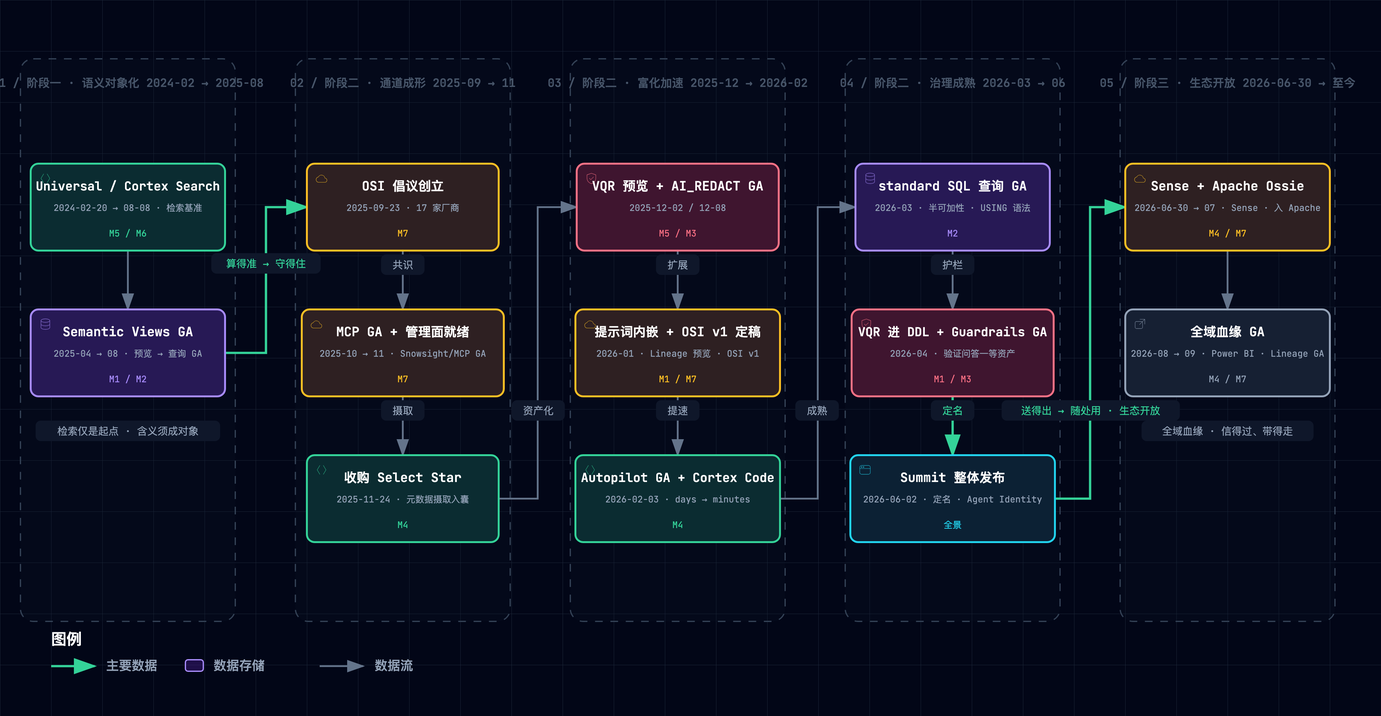
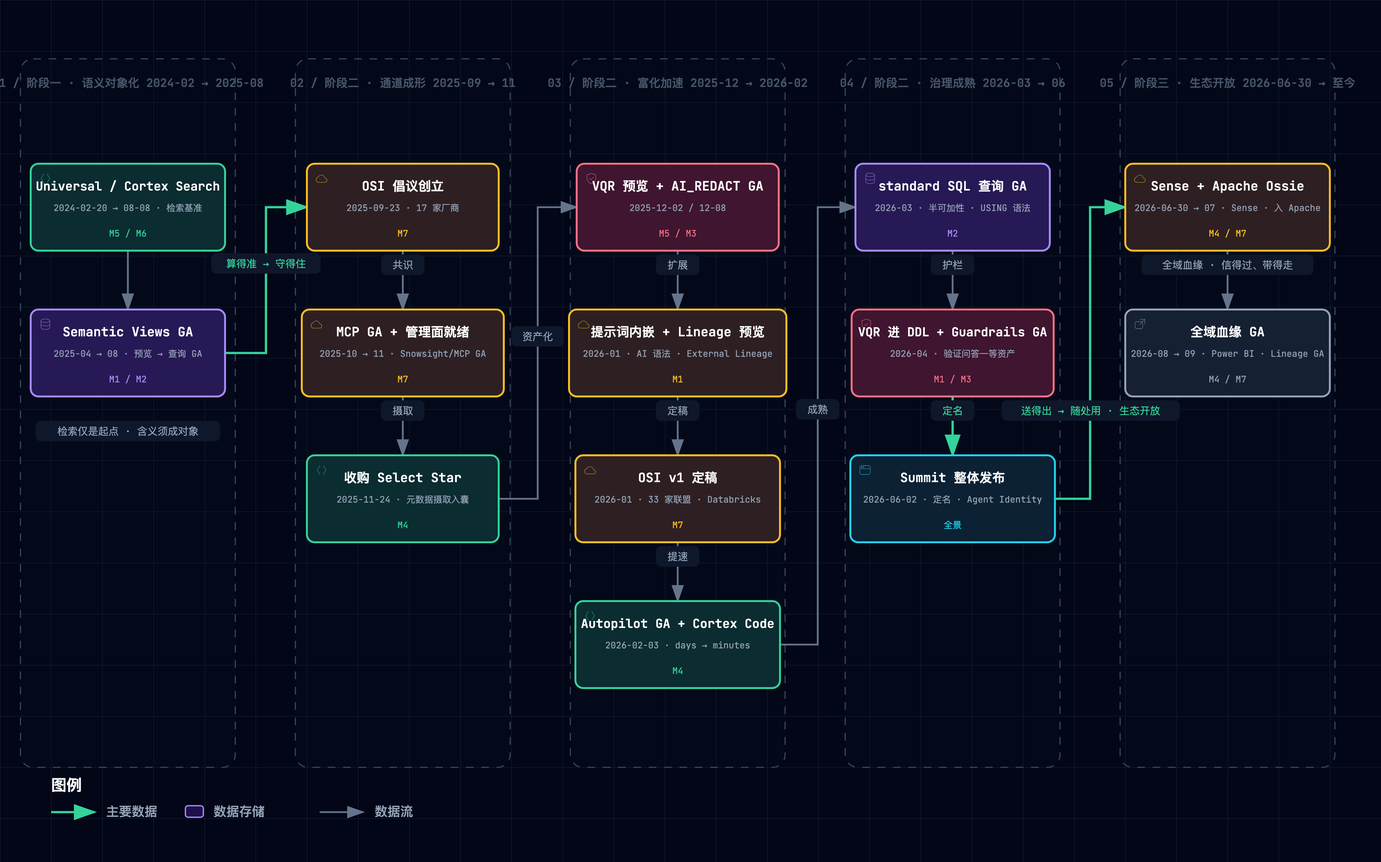
fix(horizon-context): 演进时间线重渲拆分 2026-01 双卡补回 33 家联盟 · Databricks，两个 .mmd 重写为出货图逐字镜像;
- evolution-timeline：archify 规格将 ms7 拆为 MS7A（提示词内嵌 + Lineage 预览 M1）/ MS7B（OSI v1 定稿 · 33 家联盟 · Databricks M7），HTML 重渲（validate showcase 9/9 全过 0 错 0 警 + visual-check 四视口 pass）并重采双主题 PNG；2026-01 两卡归位「富化加速 2025-12 → 2026-02」泳道，兼修旧 PNG 落位「通道成形」的日期矛盾
- 两个 .mmd 按管线铁律（mmd=SSOT）改写为出货图忠实镜像：timeline 三 subgraph 展开为五段泳道并补齐转移词（共识/摄取/资产化/扩展/定稿/提速/成熟/护栏/定名）；panorama 对齐五簇序与图内精简文案（ADA 随图归入消费端·生态与基座簇），被图省略的三条边以 %% fix 注记说明语义去向（SYSTEM$ 函数详见 open-interop 姊妹图）
- 修复评审三项发现：HTML 与 PNG 不同步 / timeline mmd 不反映五泳道结构 / panorama mmd 与图漂移

🤖 Generated with [Claude Code](https://github.com/claude), [CodeX](https://openai.com), [Gemini Code](https://github.com/apps/gemini-code-assist)

diff --git a/docs/assets/architecture/cognitive-context/horizon-context--evolution-timeline.html b/docs/assets/architecture/cognitive-context/horizon-context--evolution-timeline.html
@@ -5130,7 +5130,7 @@ OTHER DEALINGS IN THE FONT SOFTWARE.
     <!-- Main Diagram -->
     <div class="diagram-container" data-detail-level="read"
          data-preset-badge-editorial-plate="ARCHIFY / 图版 04">
-      <svg viewBox="0 0 1080 560" role="img" lang="zh-CN" aria-labelledby="archify-diagram-title archify-diagram-description" data-animation="trace" data-preset="classic" data-quality-profile="showcase">
+      <svg viewBox="0 0 1080 674" role="img" lang="zh-CN" aria-labelledby="archify-diagram-title archify-diagram-description" data-animation="trace" data-preset="classic" data-quality-profile="showcase">
         <title id="archify-diagram-title">Horizon Context 三阶段演进时间线</title>
         <desc id="archify-diagram-description">由 Archify 生成的数据流图。</desc>
         <!-- Definitions -->
@@ -5156,19 +5156,19 @@ OTHER DEALINGS IN THE FONT SOFTWARE.
         <rect width="100%" height="100%" fill="url(#grid)" />
 
         <!-- Data Stages -->
-        <rect data-graph-role="structural-frame" data-composition-frame-kind="stage" data-composition-frame-id="0" x="16" y="46" width="168" height="440" rx="10" class="c-lane" stroke-width="1"/>
+        <rect data-graph-role="structural-frame" data-composition-frame-kind="stage" data-composition-frame-id="0" x="16" y="46" width="168" height="554" rx="10" class="c-lane" stroke-width="1"/>
         <text x="100" y="68" class="t-dim" font-size="9" font-weight="600" text-anchor="middle">01 / 阶段一 · 语义对象化 2024-02 → 2025-08</text>
 
-        <rect data-graph-role="structural-frame" data-composition-frame-kind="stage" data-composition-frame-id="1" x="231" y="46" width="168" height="440" rx="10" class="c-lane" stroke-width="1"/>
+        <rect data-graph-role="structural-frame" data-composition-frame-kind="stage" data-composition-frame-id="1" x="231" y="46" width="168" height="554" rx="10" class="c-lane" stroke-width="1"/>
         <text x="315" y="68" class="t-dim" font-size="9" font-weight="600" text-anchor="middle">02 / 阶段二 · 通道成形 2025-09 → 11</text>
 
-        <rect data-graph-role="structural-frame" data-composition-frame-kind="stage" data-composition-frame-id="2" x="446" y="46" width="168" height="440" rx="10" class="c-lane" stroke-width="1"/>
+        <rect data-graph-role="structural-frame" data-composition-frame-kind="stage" data-composition-frame-id="2" x="446" y="46" width="168" height="554" rx="10" class="c-lane" stroke-width="1"/>
         <text x="530" y="68" class="t-dim" font-size="9" font-weight="600" text-anchor="middle">03 / 阶段二 · 富化加速 2025-12 → 2026-02</text>
 
-        <rect data-graph-role="structural-frame" data-composition-frame-kind="stage" data-composition-frame-id="3" x="661" y="46" width="168" height="440" rx="10" class="c-lane" stroke-width="1"/>
+        <rect data-graph-role="structural-frame" data-composition-frame-kind="stage" data-composition-frame-id="3" x="661" y="46" width="168" height="554" rx="10" class="c-lane" stroke-width="1"/>
         <text x="745" y="68" class="t-dim" font-size="9" font-weight="600" text-anchor="middle">04 / 阶段二 · 治理成熟 2026-03 → 06</text>
 
-        <rect data-graph-role="structural-frame" data-composition-frame-kind="stage" data-composition-frame-id="4" x="876" y="46" width="168" height="440" rx="10" class="c-lane" stroke-width="1"/>
+        <rect data-graph-role="structural-frame" data-composition-frame-kind="stage" data-composition-frame-id="4" x="876" y="46" width="168" height="554" rx="10" class="c-lane" stroke-width="1"/>
         <text x="960" y="68" class="t-dim" font-size="9" font-weight="600" text-anchor="middle">05 / 阶段三 · 生态开放 2026-06-30 → 至今</text>
 
         <!-- Flow paths -->
@@ -5177,13 +5177,14 @@ OTHER DEALINGS IN THE FONT SOFTWARE.
         <path data-edge-from="ms3" data-edge-to="ms4" data-edge-label="共识" data-edge-key="2" data-composition-points="315,196;315,242" d="M 315 196 L 315 242" class="a-default" data-animate="edge" style="--step:2" stroke-width="1.4" marker-end="url(#arrowhead)"/>
         <path data-edge-from="ms4" data-edge-to="ms5" data-edge-label="摄取" data-edge-key="3" data-composition-points="315,310;315,356" d="M 315 310 L 315 356" class="a-default" data-animate="edge" style="--step:3" stroke-width="1.4" marker-end="url(#arrowhead)"/>
         <path data-edge-from="ms5" data-edge-to="ms6" data-edge-label="资产化" data-edge-key="4" data-composition-points="390,390;420.5,390;420.5,162;451,162" d="M 390 390 L 420.5 390 L 420.5 162 L 451 162" class="a-default" data-animate="edge" style="--step:4" stroke-width="1.4" marker-end="url(#arrowhead)"/>
-        <path data-edge-from="ms6" data-edge-to="ms7" data-edge-label="扩展" data-edge-key="5" data-composition-points="530,196;530,242" d="M 530 196 L 530 242" class="a-default" data-animate="edge" style="--step:5" stroke-width="1.4" marker-end="url(#arrowhead)"/>
-        <path data-edge-from="ms7" data-edge-to="ms8" data-edge-label="提速" data-edge-key="6" data-composition-points="530,310;530,356" d="M 530 310 L 530 356" class="a-default" data-animate="edge" style="--step:6" stroke-width="1.4" marker-end="url(#arrowhead)"/>
-        <path data-edge-from="ms8" data-edge-to="ms9" data-edge-label="成熟" data-edge-key="7" data-composition-points="610,390;639.5,390;639.5,162;669,162" d="M 610 390 L 639.5 390 L 639.5 162 L 669 162" class="a-default" data-animate="edge" style="--step:7" stroke-width="1.4" marker-end="url(#arrowhead)"/>
-        <path data-edge-from="ms9" data-edge-to="ms10" data-edge-label="护栏" data-edge-key="8" data-composition-points="745,196;745,242" d="M 745 196 L 745 242" class="a-default" data-animate="edge" style="--step:8" stroke-width="1.4" marker-end="url(#arrowhead)"/>
-        <path data-edge-from="ms10" data-edge-to="ms11" data-edge-label="定名" data-edge-key="9" data-composition-points="745,310;745,356" d="M 745 310 L 745 356" class="a-emphasis" data-animate="edge" style="--step:9" stroke-width="1.8" marker-end="url(#arrowhead-emphasis)"/>
-        <path data-edge-from="ms11" data-edge-to="ms12" data-edge-label="送得出 → 随处用 · 生态开放" data-edge-key="10" data-composition-points="825,390;852.5,390;852.5,162;880,162" d="M 825 390 L 852.5 390 L 852.5 162 L 880 162" class="a-emphasis" data-animate="edge" style="--step:10" stroke-width="1.8" marker-end="url(#arrowhead-emphasis)"/>
-        <path data-edge-from="ms12" data-edge-to="ms13" data-edge-label="全域血缘 · 信得过、带得走" data-edge-key="11" data-composition-points="960,196;960,242" d="M 960 196 L 960 242" class="a-default" data-animate="edge" style="--step:11" stroke-width="1.4" marker-end="url(#arrowhead)"/>
+        <path data-edge-from="ms6" data-edge-to="ms7a" data-edge-label="扩展" data-edge-key="5" data-composition-points="530,196;530,242" d="M 530 196 L 530 242" class="a-default" data-animate="edge" style="--step:5" stroke-width="1.4" marker-end="url(#arrowhead)"/>
+        <path data-edge-from="ms7a" data-edge-to="ms7b" data-edge-label="定稿" data-edge-key="6" data-composition-points="530,310;530,356" d="M 530 310 L 530 356" class="a-default" data-animate="edge" style="--step:6" stroke-width="1.4" marker-end="url(#arrowhead)"/>
+        <path data-edge-from="ms7b" data-edge-to="ms8" data-edge-label="提速" data-edge-key="7" data-composition-points="530,424;530,470" d="M 530 424 L 530 470" class="a-default" data-animate="edge" style="--step:7" stroke-width="1.4" marker-end="url(#arrowhead)"/>
+        <path data-edge-from="ms8" data-edge-to="ms9" data-edge-label="成熟" data-edge-key="8" data-composition-points="610,504;639.5,504;639.5,162;669,162" d="M 610 504 L 639.5 504 L 639.5 162 L 669 162" class="a-default" data-animate="edge" style="--step:8" stroke-width="1.4" marker-end="url(#arrowhead)"/>
+        <path data-edge-from="ms9" data-edge-to="ms10" data-edge-label="护栏" data-edge-key="9" data-composition-points="745,196;745,242" d="M 745 196 L 745 242" class="a-default" data-animate="edge" style="--step:9" stroke-width="1.4" marker-end="url(#arrowhead)"/>
+        <path data-edge-from="ms10" data-edge-to="ms11" data-edge-label="定名" data-edge-key="10" data-composition-points="745,310;745,356" d="M 745 310 L 745 356" class="a-emphasis" data-animate="edge" style="--step:10" stroke-width="1.8" marker-end="url(#arrowhead-emphasis)"/>
+        <path data-edge-from="ms11" data-edge-to="ms12" data-edge-label="送得出 → 随处用 · 生态开放" data-edge-key="11" data-composition-points="825,390;852.5,390;852.5,162;880,162" d="M 825 390 L 852.5 390 L 852.5 162 L 880 162" class="a-emphasis" data-animate="edge" style="--step:11" stroke-width="1.8" marker-end="url(#arrowhead-emphasis)"/>
+        <path data-edge-from="ms12" data-edge-to="ms13" data-edge-label="全域血缘 · 信得过、带得走" data-edge-key="12" data-composition-points="960,196;960,242" d="M 960 196 L 960 242" class="a-default" data-animate="edge" style="--step:12" stroke-width="1.4" marker-end="url(#arrowhead)"/>
 
         <!-- Nodes -->
         <g id="node-ms1" data-node-id="ms1" data-node-label="Universal / Cortex Search" tabindex="0" role="button" aria-label="聚焦Universal / Cortex Search，2024-02-20 → 08-08 · 检索基准, 01 / 阶段一 · 语义对象化 2024-02 → 2025-08" aria-pressed="false" data-node-kind="backend" data-node-sublabel="2024-02-20 → 08-08 · 检索基准" data-node-tag="M5 / M6" data-node-context="01 / 阶段一 · 语义对象化 2024-02 → 2025-08">
@@ -5260,34 +5261,46 @@ OTHER DEALINGS IN THE FONT SOFTWARE.
         <text data-detail="fine" x="530" y="185" class="t-security" font-size="7" text-anchor="middle">M5 / M3</text>
         </g>
 
-        <g id="node-ms7" data-node-id="ms7" data-node-label="提示词内嵌 + OSI v1 定稿" tabindex="0" role="button" aria-label="聚焦提示词内嵌 + OSI v1 定稿，2026-01 · Lineage 预览 · OSI v1, 03 / 阶段二 · 富化加速 2025-12 → 2026-02" aria-pressed="false" data-node-kind="cloud" data-node-sublabel="2026-01 · Lineage 预览 · OSI v1" data-node-tag="M1 / M7" data-node-context="03 / 阶段二 · 富化加速 2025-12 → 2026-02">
-          <title>提示词内嵌 + OSI v1 定稿 · 2026-01 · Lineage 预览 · OSI v1 · 03 / 阶段二 · 富化加速 2025-12 → 2026-02 · M1 / M7</title>
-          <rect x="450" y="242" width="160" height="68" rx="6" class="c-mask"/>
-          <rect x="450" y="242" width="160" height="68" rx="6" class="c-cloud" data-animate="node" style="--step:6" stroke-width="1.5"/>
-          <g aria-hidden="true" data-semantic-sigil="cloud" class="semantic-sigil s-cloud" transform="translate(456 248) scale(0.6875)">
+        <g id="node-ms7a" data-node-id="ms7a" data-node-label="提示词内嵌 + Lineage 预览" tabindex="0" role="button" aria-label="聚焦提示词内嵌 + Lineage 预览，2026-01 · AI 语法 · External Lineage, 03 / 阶段二 · 富化加速 2025-12 → 2026-02" aria-pressed="false" data-node-kind="cloud" data-node-sublabel="2026-01 · AI 语法 · External Lineage" data-node-tag="M1" data-node-context="03 / 阶段二 · 富化加速 2025-12 → 2026-02">
+          <title>提示词内嵌 + Lineage 预览 · 2026-01 · AI 语法 · External Lineage · 03 / 阶段二 · 富化加速 2025-12 → 2026-02 · M1</title>
+          <rect x="445" y="242" width="170" height="68" rx="6" class="c-mask"/>
+          <rect x="445" y="242" width="170" height="68" rx="6" class="c-cloud" data-animate="node" style="--step:6" stroke-width="1.5"/>
+          <g aria-hidden="true" data-semantic-sigil="cloud" class="semantic-sigil s-cloud" transform="translate(451 248) scale(0.6875)">
             <path d="M4.3 12.5h7.3a2.4 2.4 0 0 0 .2-4.8 4 4 0 0 0-7.5-1.3A3.1 3.1 0 0 0 4.3 12.5Z"/>
           </g>
-          <text data-node-label="" data-detail-anchor="" x="530" y="263" class="t-primary" font-size="10" font-weight="600" text-anchor="middle">提示词内嵌 + OSI v1 定稿</text>
-          <text data-detail="context" x="530" y="279" class="t-muted" font-size="7" text-anchor="middle">2026-01 · Lineage 预览 · OSI v1</text>
-        <text data-detail="fine" x="530" y="299" class="t-cloud" font-size="7" text-anchor="middle">M1 / M7</text>
+          <text data-node-label="" data-detail-anchor="" x="530" y="263" class="t-primary" font-size="10" font-weight="600" text-anchor="middle">提示词内嵌 + Lineage 预览</text>
+          <text data-detail="context" x="530" y="279" class="t-muted" font-size="7" text-anchor="middle">2026-01 · AI 语法 · External Lineage</text>
+        <text data-detail="fine" x="530" y="299" class="t-cloud" font-size="7" text-anchor="middle">M1</text>
+        </g>
+
+        <g id="node-ms7b" data-node-id="ms7b" data-node-label="OSI v1 定稿" tabindex="0" role="button" aria-label="聚焦OSI v1 定稿，2026-01 · 33 家联盟 · Databricks, 03 / 阶段二 · 富化加速 2025-12 → 2026-02" aria-pressed="false" data-node-kind="cloud" data-node-sublabel="2026-01 · 33 家联盟 · Databricks" data-node-tag="M7" data-node-context="03 / 阶段二 · 富化加速 2025-12 → 2026-02">
+          <title>OSI v1 定稿 · 2026-01 · 33 家联盟 · Databricks · 03 / 阶段二 · 富化加速 2025-12 → 2026-02 · M7</title>
+          <rect x="450" y="356" width="160" height="68" rx="6" class="c-mask"/>
+          <rect x="450" y="356" width="160" height="68" rx="6" class="c-cloud" data-animate="node" style="--step:7" stroke-width="1.5"/>
+          <g aria-hidden="true" data-semantic-sigil="cloud" class="semantic-sigil s-cloud" transform="translate(456 362) scale(0.6875)">
+            <path d="M4.3 12.5h7.3a2.4 2.4 0 0 0 .2-4.8 4 4 0 0 0-7.5-1.3A3.1 3.1 0 0 0 4.3 12.5Z"/>
+          </g>
+          <text data-node-label="" data-detail-anchor="" x="530" y="377" class="t-primary" font-size="10" font-weight="600" text-anchor="middle">OSI v1 定稿</text>
+          <text data-detail="context" x="530" y="393" class="t-muted" font-size="7" text-anchor="middle">2026-01 · 33 家联盟 · Databricks</text>
+        <text data-detail="fine" x="530" y="413" class="t-cloud" font-size="7" text-anchor="middle">M7</text>
         </g>
 
         <g id="node-ms8" data-node-id="ms8" data-node-label="Autopilot GA + Cortex Code" tabindex="0" role="button" aria-label="聚焦Autopilot GA + Cortex Code，2026-02-03 · days → minutes, 03 / 阶段二 · 富化加速 2025-12 → 2026-02" aria-pressed="false" data-node-kind="backend" data-node-sublabel="2026-02-03 · days → minutes" data-node-tag="M4" data-node-context="03 / 阶段二 · 富化加速 2025-12 → 2026-02">
           <title>Autopilot GA + Cortex Code · 2026-02-03 · days → minutes · 03 / 阶段二 · 富化加速 2025-12 → 2026-02 · M4</title>
-          <rect x="450" y="356" width="160" height="68" rx="6" class="c-mask"/>
-          <rect x="450" y="356" width="160" height="68" rx="6" class="c-backend" data-animate="node" style="--step:7" stroke-width="1.5"/>
-          <g aria-hidden="true" data-semantic-sigil="backend" class="semantic-sigil s-backend" transform="translate(456 362) scale(0.6875)">
+          <rect x="450" y="470" width="160" height="68" rx="6" class="c-mask"/>
+          <rect x="450" y="470" width="160" height="68" rx="6" class="c-backend" data-animate="node" style="--step:8" stroke-width="1.5"/>
+          <g aria-hidden="true" data-semantic-sigil="backend" class="semantic-sigil s-backend" transform="translate(456 476) scale(0.6875)">
             <path d="M6 3 3 8l3 5M10 3l3 5-3 5"/>
           </g>
-          <text data-node-label="" data-detail-anchor="" x="530" y="377" class="t-primary" font-size="9.7" font-weight="600" text-anchor="middle">Autopilot GA + Cortex Code</text>
-          <text data-detail="context" x="530" y="393" class="t-muted" font-size="7" text-anchor="middle">2026-02-03 · days → minutes</text>
-        <text data-detail="fine" x="530" y="413" class="t-backend" font-size="7" text-anchor="middle">M4</text>
+          <text data-node-label="" data-detail-anchor="" x="530" y="491" class="t-primary" font-size="9.7" font-weight="600" text-anchor="middle">Autopilot GA + Cortex Code</text>
+          <text data-detail="context" x="530" y="507" class="t-muted" font-size="7" text-anchor="middle">2026-02-03 · days → minutes</text>
+        <text data-detail="fine" x="530" y="527" class="t-backend" font-size="7" text-anchor="middle">M4</text>
         </g>
 
         <g id="node-ms9" data-node-id="ms9" data-node-label="standard SQL 查询 GA" tabindex="0" role="button" aria-label="聚焦standard SQL 查询 GA，2026-03 · 半可加性 · USING 语法, 04 / 阶段二 · 治理成熟 2026-03 → 06" aria-pressed="false" data-node-kind="database" data-node-sublabel="2026-03 · 半可加性 · USING 语法" data-node-tag="M2" data-node-context="04 / 阶段二 · 治理成熟 2026-03 → 06">
           <title>standard SQL 查询 GA · 2026-03 · 半可加性 · USING 语法 · 04 / 阶段二 · 治理成熟 2026-03 → 06 · M2</title>
           <rect x="669" y="128" width="152" height="68" rx="6" class="c-mask"/>
-          <rect x="669" y="128" width="152" height="68" rx="6" class="c-database" data-animate="node" style="--step:8" stroke-width="1.5"/>
+          <rect x="669" y="128" width="152" height="68" rx="6" class="c-database" data-animate="node" style="--step:9" stroke-width="1.5"/>
           <g aria-hidden="true" data-semantic-sigil="database" class="semantic-sigil s-database" transform="translate(675 134) scale(0.6875)">
             <ellipse cx="8" cy="4" rx="5" ry="2"/>
             <path d="M3 4v8c0 1.1 2.2 2 5 2s5-.9 5-2V4M3 8c0 1.1 2.2 2 5 2s5-.9 5-2"/>
@@ -5300,7 +5313,7 @@ OTHER DEALINGS IN THE FONT SOFTWARE.
         <g id="node-ms10" data-node-id="ms10" data-node-label="VQR 进 DDL + Guardrails GA" tabindex="0" role="button" aria-label="聚焦VQR 进 DDL + Guardrails GA，2026-04 · 验证问答一等资产, 04 / 阶段二 · 治理成熟 2026-03 → 06" aria-pressed="false" data-node-kind="security" data-node-sublabel="2026-04 · 验证问答一等资产" data-node-tag="M1 / M3" data-node-context="04 / 阶段二 · 治理成熟 2026-03 → 06">
           <title>VQR 进 DDL + Guardrails GA · 2026-04 · 验证问答一等资产 · 04 / 阶段二 · 治理成熟 2026-03 → 06 · M1 / M3</title>
           <rect x="666" y="242" width="158" height="68" rx="6" class="c-mask"/>
-          <rect x="666" y="242" width="158" height="68" rx="6" class="c-security" data-animate="node" style="--step:9" stroke-width="1.5"/>
+          <rect x="666" y="242" width="158" height="68" rx="6" class="c-security" data-animate="node" style="--step:10" stroke-width="1.5"/>
           <g aria-hidden="true" data-semantic-sigil="security" class="semantic-sigil s-security" transform="translate(672 248) scale(0.6875)">
             <path d="M8 2.2 13 4v3.5c0 3.1-1.8 5.4-5 6.5-3.2-1.1-5-3.4-5-6.5V4Z"/>
             <path d="m5.8 8 1.5 1.5 3-3"/>
@@ -5313,7 +5326,7 @@ OTHER DEALINGS IN THE FONT SOFTWARE.
         <g id="node-ms11" data-node-id="ms11" data-node-label="Summit 整体发布" tabindex="0" role="button" aria-label="聚焦Summit 整体发布，2026-06-02 · 定名 · Agent Identity, 04 / 阶段二 · 治理成熟 2026-03 → 06" aria-pressed="false" data-node-kind="frontend" data-node-sublabel="2026-06-02 · 定名 · Agent Identity" data-node-tag="全景" data-node-context="04 / 阶段二 · 治理成熟 2026-03 → 06">
           <title>Summit 整体发布 · 2026-06-02 · 定名 · Agent Identity · 04 / 阶段二 · 治理成熟 2026-03 → 06 · 全景</title>
           <rect x="665" y="356" width="160" height="68" rx="6" class="c-mask"/>
-          <rect x="665" y="356" width="160" height="68" rx="6" class="c-frontend" data-animate="node" style="--step:10" stroke-width="1.5"/>
+          <rect x="665" y="356" width="160" height="68" rx="6" class="c-frontend" data-animate="node" style="--step:11" stroke-width="1.5"/>
           <g aria-hidden="true" data-semantic-sigil="frontend" class="semantic-sigil s-frontend" transform="translate(671 362) scale(0.6875)">
             <rect x="2" y="3" width="12" height="10" rx="2"/>
             <path d="M2 6.5h12"/>
@@ -5328,7 +5341,7 @@ OTHER DEALINGS IN THE FONT SOFTWARE.
         <g id="node-ms12" data-node-id="ms12" data-node-label="Sense + Apache Ossie" tabindex="0" role="button" aria-label="聚焦Sense + Apache Ossie，2026-06-30 → 07 · Sense · 入 Apache, 05 / 阶段三 · 生态开放 2026-06-30 → 至今" aria-pressed="false" data-node-kind="cloud" data-node-sublabel="2026-06-30 → 07 · Sense · 入 Apache" data-node-tag="M4 / M7" data-node-context="05 / 阶段三 · 生态开放 2026-06-30 → 至今">
           <title>Sense + Apache Ossie · 2026-06-30 → 07 · Sense · 入 Apache · 05 / 阶段三 · 生态开放 2026-06-30 → 至今 · M4 / M7</title>
           <rect x="880" y="128" width="160" height="68" rx="6" class="c-mask"/>
-          <rect x="880" y="128" width="160" height="68" rx="6" class="c-cloud" data-animate="node" style="--step:11" stroke-width="1.5"/>
+          <rect x="880" y="128" width="160" height="68" rx="6" class="c-cloud" data-animate="node" style="--step:12" stroke-width="1.5"/>
           <g aria-hidden="true" data-semantic-sigil="cloud" class="semantic-sigil s-cloud" transform="translate(886 134) scale(0.6875)">
             <path d="M4.3 12.5h7.3a2.4 2.4 0 0 0 .2-4.8 4 4 0 0 0-7.5-1.3A3.1 3.1 0 0 0 4.3 12.5Z"/>
           </g>
@@ -5368,52 +5381,56 @@ OTHER DEALINGS IN THE FONT SOFTWARE.
           <text x="315" y="324" class="t-muted" font-size="8" text-anchor="middle">摄取</text>
         </g>
         <g data-detail="context" data-edge-from="ms5" data-edge-to="ms6" data-edge-label="资产化" data-edge-key="4">
-          <rect x="400.3" y="313" width="41.4" height="16" rx="4" class="c-mask"/>
-          <text x="421" y="324" class="t-muted" font-size="8" text-anchor="middle">资产化</text>
+          <rect x="399.8" y="255" width="41.4" height="16" rx="4" class="c-mask"/>
+          <text x="420.5" y="266" class="t-muted" font-size="8" text-anchor="middle">资产化</text>
         </g>
-        <g data-detail="context" data-edge-from="ms6" data-edge-to="ms7" data-edge-label="扩展" data-edge-key="5">
+        <g data-detail="context" data-edge-from="ms6" data-edge-to="ms7a" data-edge-label="扩展" data-edge-key="5">
           <rect x="513" y="199" width="34" height="16" rx="4" class="c-mask"/>
           <text x="530" y="210" class="t-muted" font-size="8" text-anchor="middle">扩展</text>
         </g>
-        <g data-detail="context" data-edge-from="ms7" data-edge-to="ms8" data-edge-label="提速" data-edge-key="6">
+        <g data-detail="context" data-edge-from="ms7a" data-edge-to="ms7b" data-edge-label="定稿" data-edge-key="6">
           <rect x="513" y="313" width="34" height="16" rx="4" class="c-mask"/>
-          <text x="530" y="324" class="t-muted" font-size="8" text-anchor="middle">提速</text>
+          <text x="530" y="324" class="t-muted" font-size="8" text-anchor="middle">定稿</text>
         </g>
-        <g data-detail="context" data-edge-from="ms8" data-edge-to="ms9" data-edge-label="成熟" data-edge-key="7">
-          <rect x="622" y="313" width="34" height="16" rx="4" class="c-mask"/>
-          <text x="639" y="324" class="t-muted" font-size="8" text-anchor="middle">成熟</text>
+        <g data-detail="context" data-edge-from="ms7b" data-edge-to="ms8" data-edge-label="提速" data-edge-key="7">
+          <rect x="513" y="427" width="34" height="16" rx="4" class="c-mask"/>
+          <text x="530" y="438" class="t-muted" font-size="8" text-anchor="middle">提速</text>
         </g>
-        <g data-detail="context" data-edge-from="ms9" data-edge-to="ms10" data-edge-label="护栏" data-edge-key="8">
+        <g data-detail="context" data-edge-from="ms8" data-edge-to="ms9" data-edge-label="成熟" data-edge-key="8">
+          <rect x="622.5" y="312" width="34" height="16" rx="4" class="c-mask"/>
+          <text x="639.5" y="323" class="t-muted" font-size="8" text-anchor="middle">成熟</text>
+        </g>
+        <g data-detail="context" data-edge-from="ms9" data-edge-to="ms10" data-edge-label="护栏" data-edge-key="9">
           <rect x="728" y="199" width="34" height="16" rx="4" class="c-mask"/>
           <text x="745" y="210" class="t-muted" font-size="8" text-anchor="middle">护栏</text>
         </g>
-        <g data-detail="context" data-edge-from="ms10" data-edge-to="ms11" data-edge-label="定名" data-edge-key="9">
+        <g data-detail="context" data-edge-from="ms10" data-edge-to="ms11" data-edge-label="定名" data-edge-key="10">
           <rect x="728" y="313" width="34" height="16" rx="4" class="c-mask"/>
           <text x="745" y="324" class="t-backend" font-size="8" text-anchor="middle">定名</text>
         </g>
-        <g data-detail="context" data-edge-from="ms11" data-edge-to="ms12" data-edge-label="送得出 → 随处用 · 生态开放" data-edge-key="10">
+        <g data-detail="context" data-edge-from="ms11" data-edge-to="ms12" data-edge-label="送得出 → 随处用 · 生态开放" data-edge-key="11">
           <rect x="783.3" y="313" width="139.4" height="16" rx="4" class="c-mask"/>
           <text x="853" y="324" class="t-backend" font-size="8" text-anchor="middle">送得出 → 随处用 · 生态开放</text>
         </g>
-        <g data-detail="context" data-edge-from="ms12" data-edge-to="ms13" data-edge-label="全域血缘 · 信得过、带得走" data-edge-key="11">
-          <rect x="892.75" y="329" width="134.5" height="16" rx="4" class="c-mask"/>
-          <text x="960" y="340" class="t-muted" font-size="8" text-anchor="middle">全域血缘 · 信得过、带得走</text>
+        <g data-detail="context" data-edge-from="ms12" data-edge-to="ms13" data-edge-label="全域血缘 · 信得过、带得走" data-edge-key="12">
+          <rect x="892.75" y="199" width="134.5" height="16" rx="4" class="c-mask"/>
+          <text x="960" y="210" class="t-muted" font-size="8" text-anchor="middle">全域血缘 · 信得过、带得走</text>
         </g>
 
         <!-- Legend -->
         <g data-legend="" data-legend-bridge="">
-          <text x="40" y="504" class="t-primary" font-size="12" font-weight="650">图例</text>
-          <g data-legend-semantic-kind="emphasis" data-legend-x="40" data-legend-baseline="524" data-legend-width="83">
-            <path d="M 40 521 L 74 521" class="a-emphasis" stroke-width="1.8" marker-end="url(#arrowhead-emphasis)"/>
-            <text x="83" y="524" class="t-muted" font-size="10" font-weight="500">主要数据</text>
+          <text x="40" y="618" class="t-primary" font-size="12" font-weight="650">图例</text>
+          <g data-legend-semantic-kind="emphasis" data-legend-x="40" data-legend-baseline="638" data-legend-width="83">
+            <path d="M 40 635 L 74 635" class="a-emphasis" stroke-width="1.8" marker-end="url(#arrowhead-emphasis)"/>
+            <text x="83" y="638" class="t-muted" font-size="10" font-weight="500">主要数据</text>
           </g>
-          <g data-legend-semantic-kind="database" data-legend-kind="database" data-legend-label="数据存储" data-legend-x="145" data-legend-baseline="524" data-legend-width="83">
-            <rect x="145" y="516" width="14" height="9" rx="2" class="c-database" stroke-width="1"/>
-            <text x="167" y="524" class="t-muted" font-size="10" font-weight="500">数据存储</text>
+          <g data-legend-semantic-kind="database" data-legend-kind="database" data-legend-label="数据存储" data-legend-x="145" data-legend-baseline="638" data-legend-width="83">
+            <rect x="145" y="630" width="14" height="9" rx="2" class="c-database" stroke-width="1"/>
+            <text x="167" y="638" class="t-muted" font-size="10" font-weight="500">数据存储</text>
           </g>
-          <g data-legend-semantic-kind="default" data-legend-x="250" data-legend-baseline="524" data-legend-width="73">
-            <path d="M 250 521 L 284 521" class="a-default" stroke-width="1.4" marker-end="url(#arrowhead)"/>
-            <text x="293" y="524" class="t-muted" font-size="10" font-weight="500">数据流</text>
+          <g data-legend-semantic-kind="default" data-legend-x="250" data-legend-baseline="638" data-legend-width="73">
+            <path d="M 250 635 L 284 635" class="a-default" stroke-width="1.4" marker-end="url(#arrowhead)"/>
+            <text x="293" y="638" class="t-muted" font-size="10" font-weight="500">数据流</text>
           </g>
         </g>
       </svg>
